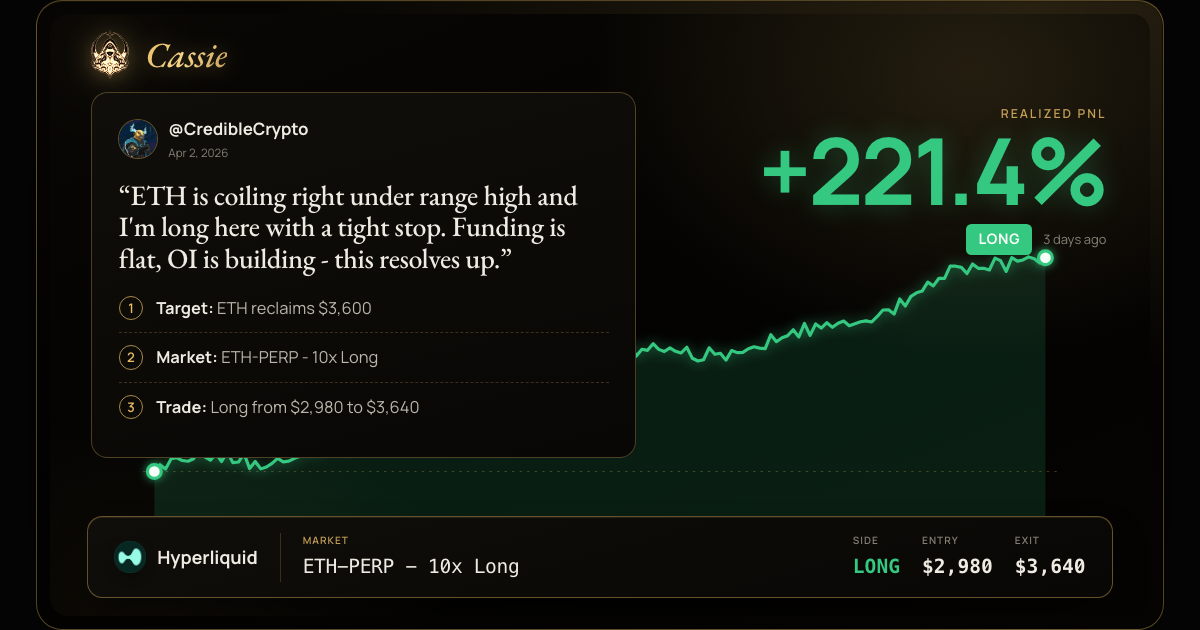
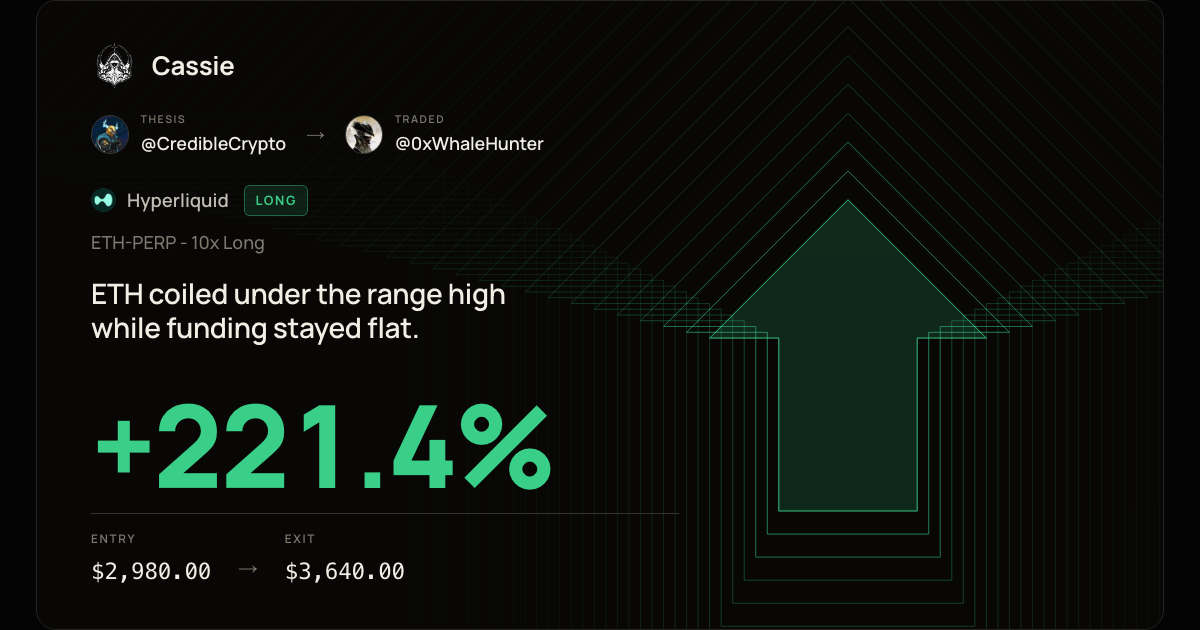
Refresh trade card OG assets

diff --git a/apps/web/app/card/page.tsx b/apps/web/app/card/page.tsx
@@ -30,8 +30,8 @@ const hyperliquidWin: TradeCardProps = {
     percent: "+221.4%",
     side: "LONG",
     when: "3 days ago",
-    entry: "$2,980",
-    exit: "$3,640",
+    entry: "$2,980.00",
+    exit: "$3,640.00",
   },
   market: {
     venue: "Hyperliquid",
@@ -49,8 +49,8 @@ const hyperliquidLoss: TradeCardProps = {
     percent: "-72.3%",
     side: "LONG",
     when: "1 wk ago",
-    entry: "$3,180",
-    exit: "$2,720",
+    entry: "$3,180.00",
+    exit: "$2,720.00",
   },
   market: {
     venue: "Hyperliquid",

diff --git a/apps/web/app/card/og/page.tsx b/apps/web/app/card/og/page.tsx
@@ -21,8 +21,8 @@ const hyperliquid: TradeCardProps = {
     percent: "+221.4%",
     side: "LONG",
     when: "3 days ago",
-    entry: "$2,980",
-    exit: "$3,640",
+    entry: "$2,980.00",
+    exit: "$3,640.00",
   },
   market: {
     venue: "Hyperliquid",
